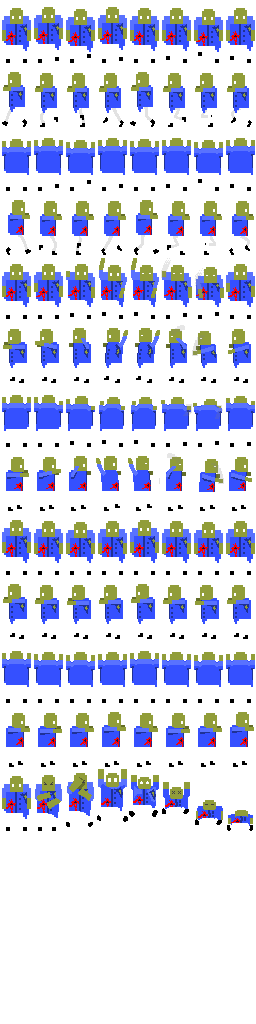
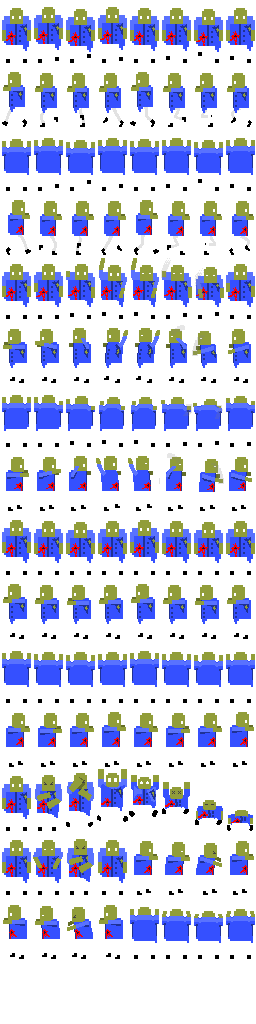
additional animations 	- more leech 	- hurt animations(not finished in code)

Changed region(s): [[0.0, 0.8125, 1.0, 0.9375]]

diff --git a/SwampMonster/src/com/me/swampmonster/game/L1Renderer.java b/SwampMonster/src/com/me/swampmonster/game/L1Renderer.java
@@ -1,6 +1,7 @@
 package com.me.swampmonster.game;
 
 import com.badlogic.gdx.Gdx;
+import com.badlogic.gdx.graphics.Camera;
 import com.badlogic.gdx.graphics.Color;
 import com.badlogic.gdx.graphics.GL20;
 import com.badlogic.gdx.graphics.OrthographicCamera;
@@ -11,6 +12,8 @@ import com.badlogic.gdx.graphics.glutils.ShapeRenderer;
 import com.badlogic.gdx.graphics.glutils.ShapeRenderer.ShapeType;
 import com.badlogic.gdx.maps.tiled.TiledMapTileLayer;
 import com.badlogic.gdx.maps.tiled.renderers.OrthogonalTiledMapRenderer;
+import com.badlogic.gdx.math.Matrix3;
+import com.badlogic.gdx.math.Matrix4;
 import com.badlogic.gdx.math.Rectangle;
 import com.badlogic.gdx.math.Vector2;
 import com.me.swampmonster.AI.Node;
@@ -21,7 +24,9 @@ import com.me.swampmonster.utils.Constants;
 
 public class L1Renderer {
 	private OrthographicCamera cam;
+	private Matrix4 matrix;
 	private TheController theController;
+	private Vector2 rPoint;
 	
 	// Temporary debug feature
 	private ShapeRenderer sr;
@@ -48,7 +53,8 @@ public class L1Renderer {
 		this.cam = new OrthographicCamera(Constants.VIEWPORT_WIDTH, Constants.VIEWPORT_HEIGHT);
 		font = new BitmapFont(Gdx.files.internal("data/font.fnt"),
 		         Gdx.files.internal("data/font_0.tga"), false);
-		
+		matrix = cam.combined.cpy();
+		matrix.setToOrtho2D(0,0,Constants.VIEWPORT_GUI_WIDTH,Constants.VIEWPORT_GUI_HEIGHT);
 		// Temporary debug feature
 //		Pathfinder.setTiledMap(level1.getBunker().getMap());
 		// temporary bedug feature
@@ -61,6 +67,8 @@ public class L1Renderer {
 		
 		timer = 60;
 		
+		rPoint = theController.point;
+//		rPoint.unproject
 	}	
 	public void render() {
 		Gdx.gl.glClearColor(0,0,0,1);
@@ -75,6 +83,7 @@ public class L1Renderer {
 		
 		batch.setProjectionMatrix(cam.combined);
 		sr.setProjectionMatrix(cam.combined);
+		staticSr.setProjectionMatrix(matrix);
 		
 		mapRenderer.setView(cam);
 		mapRenderer.render(background);
@@ -131,6 +140,7 @@ public class L1Renderer {
 			sr.circle(enemy.getoRangeAura().x+8, enemy.getoRangeAura().y+16, enemy.getoRangeAura().radius);
 		}	
 		sr.setColor(Color.WHITE);
+		sr.rect(theController.point.x, theController.point.y, 32, 32);
 		sr.rect(theController.level1.getPlayer().getPosition().x, theController.level1.getPlayer().getPosition().y,
 				theController.level1.getPlayer().getRectanlge().width, theController.level1.getPlayer().getRectanlge().height);
 		for(Enemy enemy:theController.level1.getEnemies()){
@@ -217,7 +227,7 @@ public class L1Renderer {
 		staticSr.begin(ShapeType.Line);
 		if(theController.level1.getPlayer().getState() == State.GUNMOVEMENT){
 			staticSr.setColor(Color.MAGENTA);
-			if(theController.doesIntersect(new Vector2(416,255), theController.level1.getPlayer().getCircle().radius*2)){
+			if(theController.doesIntersect(new Vector2(theController.level1.getPlayer().getCircle().x, theController.level1.getPlayer().getCircle().y), theController.level1.getPlayer().getCircle().radius*2)){
 				staticSr.setColor(Color.WHITE);
 			}
 			staticSr.circle(400, 255, theController.level1.getPlayer().getCircle().radius*2);

diff --git a/SwampMonster/src/com/me/swampmonster/models/EnemyLeech.java b/SwampMonster/src/com/me/swampmonster/models/EnemyLeech.java
@@ -1,11 +1,19 @@
 package com.me.swampmonster.models;
 
+import com.badlogic.gdx.graphics.g2d.Sprite;
 import com.badlogic.gdx.math.Vector2;
+import com.me.swampmonster.animations.AnimationControl;
+import com.me.swampmonster.models.AbstractGameObject.State;
 
 public class EnemyLeech extends Enemy{
 
 	public EnemyLeech(Vector2 position) {
 		super(position);
+		
+		animationsStandard.put(State.STANDARD, new AnimationControl("data/EnemyLeech.png", 8, 16, 7)); 
+		animationsStandard.put(State.PURSUIT, new AnimationControl("data/EnemyLeech.png", 8, 16, 7)); 
+		
+		sprite = new Sprite(animationsStandard.get(state).getCurrentFrame());
 		playerMovementSpeed = 0.2f;
 		health = 1;
 		damage = 1;

diff --git a/SwampMonster/src/com/me/swampmonster/GUI/Weaponizer.java b/SwampMonster/src/com/me/swampmonster/GUI/Weaponizer.java
@@ -24,10 +24,10 @@ public class Weaponizer extends AbstractGameObject{
 		circle.radius = 56;
 	}
 	public void update(Vector2 point){
-		if(Gdx.input.justTouched() && doesIntersect(position, circle.radius, point) && !on){
+		if(Gdx.input.justTouched() && doesIntersect(new Vector2(circle.x, circle.y), circle.radius, point) && !on){
 			on = true;
 //			System.out.println(on);
-		}else if(Gdx.input.justTouched() && doesIntersect(position, circle.radius, point) && on){
+		}else if(Gdx.input.justTouched() && doesIntersect(new Vector2(circle.x, circle.y), circle.radius, point) && on){
 			on = false;
 //			System.out.println(on);
 		}

diff --git a/SwampMonster/src/com/me/swampmonster/game/TheController.java b/SwampMonster/src/com/me/swampmonster/game/TheController.java
@@ -119,6 +119,7 @@ public class TheController extends InputAdapter{
 		point.x = Gdx.input.getX();
 		point.y = 480-Gdx.input.getY();
 		
+		
 		V3point.x = Gdx.input.getX();
 		V3point.y = Gdx.input.getY();
 		l1Renderer.getCam().unproject(V3point);
